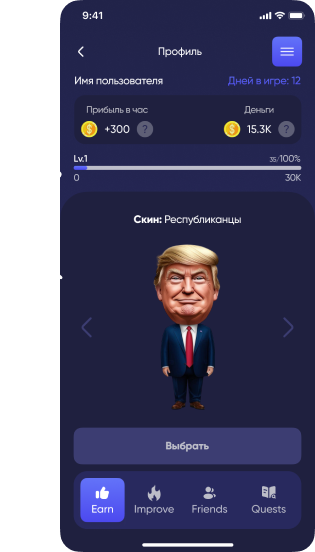
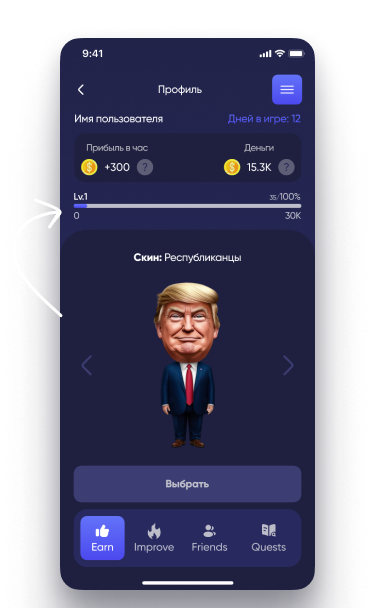
A-6

diff --git a/src/pages/instructions/instructions.const.tsx b/src/pages/instructions/instructions.const.tsx
@@ -7,7 +7,7 @@ import instruction6 from '@/assets/images/instructions/instruction-6.png';
 import instruction7 from '@/assets/images/instructions/instruction-7.png';
 import instruction8 from '@/assets/images/instructions/instruction-8.png';
 
-import { ReactNode } from 'react';
+import { CSSProperties, ReactNode } from 'react';
 import SelectLanguage from '../../components/shared/SelectLanguage/SelectLanguage';
 
 export const instructions: instructionType[] = [
@@ -16,6 +16,7 @@ export const instructions: instructionType[] = [
 		title: 'Нажимайте и зарабатывайте',
 		description: 'Выберите предпочитаемый язык из списка',
 		additionitem: <SelectLanguage />,
+		imgStyles: { top: '9%' },
 		image: instruction1,
 	},
 	{
@@ -23,6 +24,12 @@ export const instructions: instructionType[] = [
 		title: 'Нажимайте и зарабатывайте',
 		description:
 			'У кандидатов есть бюджет на выборы, выбирая кандидата, Вы зарабатываете ему бюджет для победы. У какого кандидата больше бюджет, тот и победит на выборах!',
+		imgStyles: {
+			position: 'static',
+			marginTop: '40px',
+			marginBottom: '20px',
+			boxShadow: 'none',
+		},
 		image: instruction2,
 	},
 	{
@@ -37,6 +44,9 @@ export const instructions: instructionType[] = [
 		title: 'Нажимайте и зарабатывайте',
 		description: 'Прокачайте Вашего персонажа и пройдите весь путь',
 		image: instruction4,
+		imgStyles: {
+			boxShadow: 'none',
+		},
 	},
 	{
 		id: 5,
@@ -44,6 +54,7 @@ export const instructions: instructionType[] = [
 		description:
 			'Ваш опыт увеличивается с каждым улучшением. По мере повышения уровня растёт ваша прибыль за каждый тап и открываются новые возможности для улучшений',
 		image: instruction5,
+		imgStyles: { top: '-8%', boxShadow: 'none' },
 	},
 	{
 		id: 6,
@@ -51,6 +62,7 @@ export const instructions: instructionType[] = [
 		description:
 			'Увеличивайте свой доход, покупая улучшения для Вашего персонажа',
 		image: instruction6,
+		imgStyles: { top: 0 },
 	},
 	{
 		id: 7,
@@ -58,6 +70,7 @@ export const instructions: instructionType[] = [
 		description:
 			'Приглашайте друзей и получайте бонусы вместе. Вы и ваш друг получите монеты',
 		image: instruction7,
+		imgStyles: { top: 0 },
 	},
 	{
 		id: 8,
@@ -73,5 +86,6 @@ export type instructionType = {
 	title: string;
 	description: string;
 	image: string;
+	imgStyles?: CSSProperties;
 	additionitem?: ReactNode;
 };

diff --git a/src/components/ui/Select/Option/Option.tsx b/src/components/ui/Select/Option/Option.tsx
@@ -1,13 +1,11 @@
 import CheckIcon from '@/assets/icons/check.svg';
 import clsx from 'clsx';
-import { MouseEventHandler, useState } from 'react';
+import { MouseEventHandler } from 'react';
 import { Option as OptionType } from '../Select.interface';
 import { IOptionComponent } from './Option.interface';
 import styles from './Option.module.css';
 
-const Option = ({ option, onClick }: IOptionComponent) => {
-	const [isSelected] = useState(false);
-
+const Option = ({ option, selected, onClick }: IOptionComponent) => {
 	const handleClick =
 		(clickedValue: OptionType): MouseEventHandler<HTMLLIElement> =>
 		() => {
@@ -16,12 +14,12 @@ const Option = ({ option, onClick }: IOptionComponent) => {
 
 	return (
 		<li
-			className={clsx(styles.option, { [styles.isSelected]: isSelected })}
+			className={clsx(styles.option, { [styles.isSelected]: selected })}
 			value={option.value}
 			onClick={handleClick(option)}
 		>
 			<div>{option.title}</div>
-			{isSelected && <img src={CheckIcon} alt="" />}
+			{selected && <img src={CheckIcon} alt="" />}
 		</li>
 	);
 };

diff --git a/src/components/ui/Select/Select.tsx b/src/components/ui/Select/Select.tsx
@@ -101,13 +101,22 @@ const Select = ({
 			</div>
 			<motion.nav initial={isOpen} animate={isOpen ? 'open' : 'closed'}>
 				<motion.ul className={styles.select} variants={menuVariants}>
-					{options.map(option => (
-						<Option
-							key={option.value}
-							option={option}
-							onClick={handleOptionClick}
-						/>
-					))}
+					{options.map(option =>
+						option.value === selectedOption?.value ? (
+							<Option
+								key={option.value}
+								option={option}
+								selected={true}
+								onClick={handleOptionClick}
+							/>
+						) : (
+							<Option
+								key={option.value}
+								option={option}
+								onClick={handleOptionClick}
+							/>
+						)
+					)}
 				</motion.ul>
 			</motion.nav>
 		</div>

diff --git a/src/pages/instructions/InstructionItem/InstructionItem.tsx b/src/pages/instructions/InstructionItem/InstructionItem.tsx
@@ -8,6 +8,7 @@ import styles from './InstructionItem.module.css';
 
 const InstructionItem = ({
 	image,
+	imgStyles,
 	title,
 	description,
 	additionItem,
@@ -34,7 +35,7 @@ const InstructionItem = ({
 			transition={{ duration: 0.2 }}
 			className={styles.item}
 		>
-			<img src={image} alt="" className={styles.img} />
+			<img src={image} alt="" style={imgStyles} className={styles.img} />
 			<div className={styles.block}>
 				<div className={styles.container}>
 					<h2 className={styles.title}>{title}</h2>

diff --git a/src/pages/instructions/InstructionItem/InstructionItem.module.css b/src/pages/instructions/InstructionItem/InstructionItem.module.css
@@ -7,15 +7,16 @@
 }
 
 .img {
+	display: block;
 	width: auto;
 	height: auto;
-	position: relative;
+	position: absolute;
+	top: 5%;
 	box-shadow: 0px 12px 26px 0px rgba(21, 21, 41, 0.25),
 		0px 48px 48px 0px rgba(21, 21, 41, 0.22),
 		0px 108px 65px 0px rgba(21, 21, 41, 0.13),
 		0px 191px 77px 0px rgba(21, 21, 41, 0.04),
 		0px 299px 84px 0px rgba(21, 21, 41, 0);
-	top: 5%;
 	z-index: -1;
 }
 

diff --git a/src/pages/instructions/Instructions.tsx b/src/pages/instructions/Instructions.tsx
@@ -17,6 +17,7 @@ export default function InstructionsPage() {
 							<InstructionItem
 								key={instruction.id}
 								image={instruction.image}
+								imgStyles={instruction.imgStyles}
 								title={instruction.title}
 								description={instruction.description}
 								additionItem={instruction.additionitem}

diff --git a/src/pages/instructions/InstructionItem/InstructionItem.interface.ts b/src/pages/instructions/InstructionItem/InstructionItem.interface.ts
@@ -1,7 +1,8 @@
-import { Dispatch, ReactNode, SetStateAction } from 'react';
+import { CSSProperties, Dispatch, ReactNode, SetStateAction } from 'react';
 
 export interface IInstructionItemComponent {
 	image: string;
+	imgStyles?: CSSProperties;
 	title: string;
 	description: string;
 	additionItem: ReactNode;

diff --git a/src/components/ui/Select/Option/Option.interface.ts b/src/components/ui/Select/Option/Option.interface.ts
@@ -2,5 +2,6 @@ import { Option } from '../Select.interface';
 
 export interface IOptionComponent {
 	option: Option;
+	selected?: boolean;
 	onClick: (value: Option) => void;
 }

diff --git a/src/pages/instructions/Instructions.module.css b/src/pages/instructions/Instructions.module.css
@@ -3,4 +3,5 @@
 	/* max-width: 920px;
 	margin: 0 auto;
 	padding: 40px 16px; */
+	margin-top: 50px;
 }
